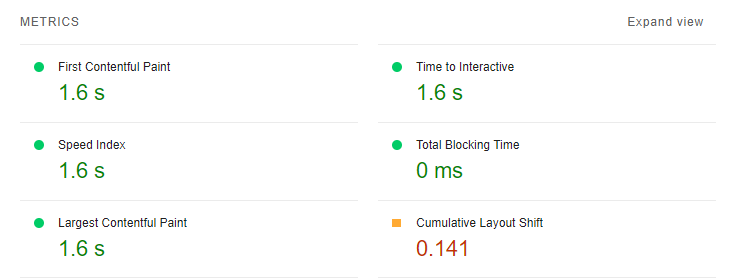
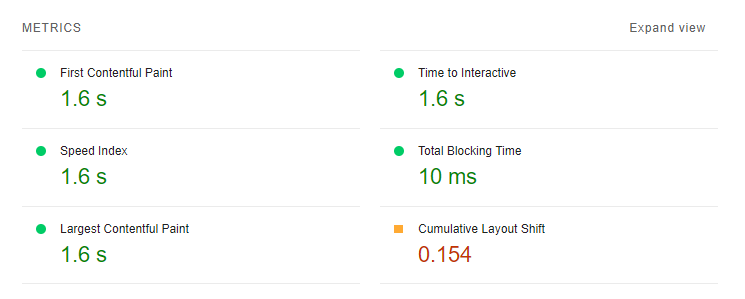
docs: update Lighthousetesting to show mobile tests with CLS images/ add max-width to quiz-container in styles.css

diff --git a/assets/css/styles.css b/assets/css/styles.css
@@ -159,7 +159,7 @@ input[type=text] {
 /* Quiz Container and Image Styles */
 #quiz-container {
     display: flex;
-    width: 80%;
+    max-width: 80%;
     height: auto;
     margin: 0 auto;
     flex-direction: column;

diff --git a/README.md b/README.md
@@ -261,12 +261,13 @@ Other Warnings included;
   
 ![Lighthouse Report](assets/documentation/index-lighthouse.png)
 
- - On mobile, the performace is 96. This was because of a cumulative layout shift of 0.15. Recommendations for this were to add width and height to images and change the main logo to a .webp.
+ - On mobile, the performace is 96. This was because of a cumulative layout shift of 0.154. Recommendations for this were to add width and height to images and change the main logo to a .webp.
  - To change images from .jpg to .webp I used the website [WEBP Converter](https://cloudconvert.com/webp-converter).
- - Even after these changes, there is still a CLS of 0.141. As I have already given everything a max-width and height, this is the best I can achieve.
+ - Even after these changes, there is still a CLS of 0.154. As I have already given everything a max-width and height, this is the best I can achieve.
 
- ![Lighthouse Metrics](assets/documentation/mobile-lighthouse.png)
- ![Lighthouse Metrics](assets/documentation/mobile-metrics.png)
+![Lighthouse Metrics](assets/documentation/mobile-lighthouse.png)
+![Lighthouse Metrics](assets/documentation/mobile-metrics.png)
+![Lighthouse Metrics](assets/documentation/mobile-metrics2.png)
 
 | Page | Device | Category | Result |
 |------|--------|----------|--------|
